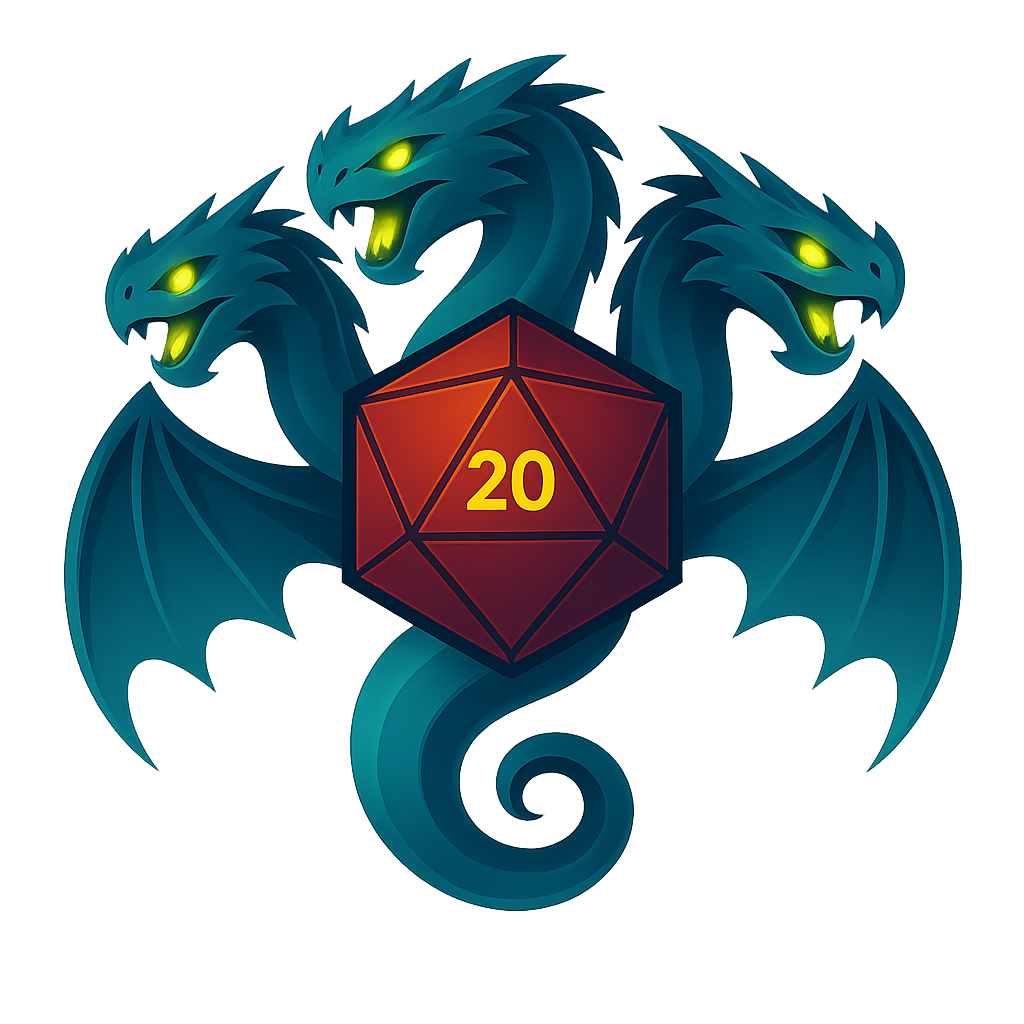
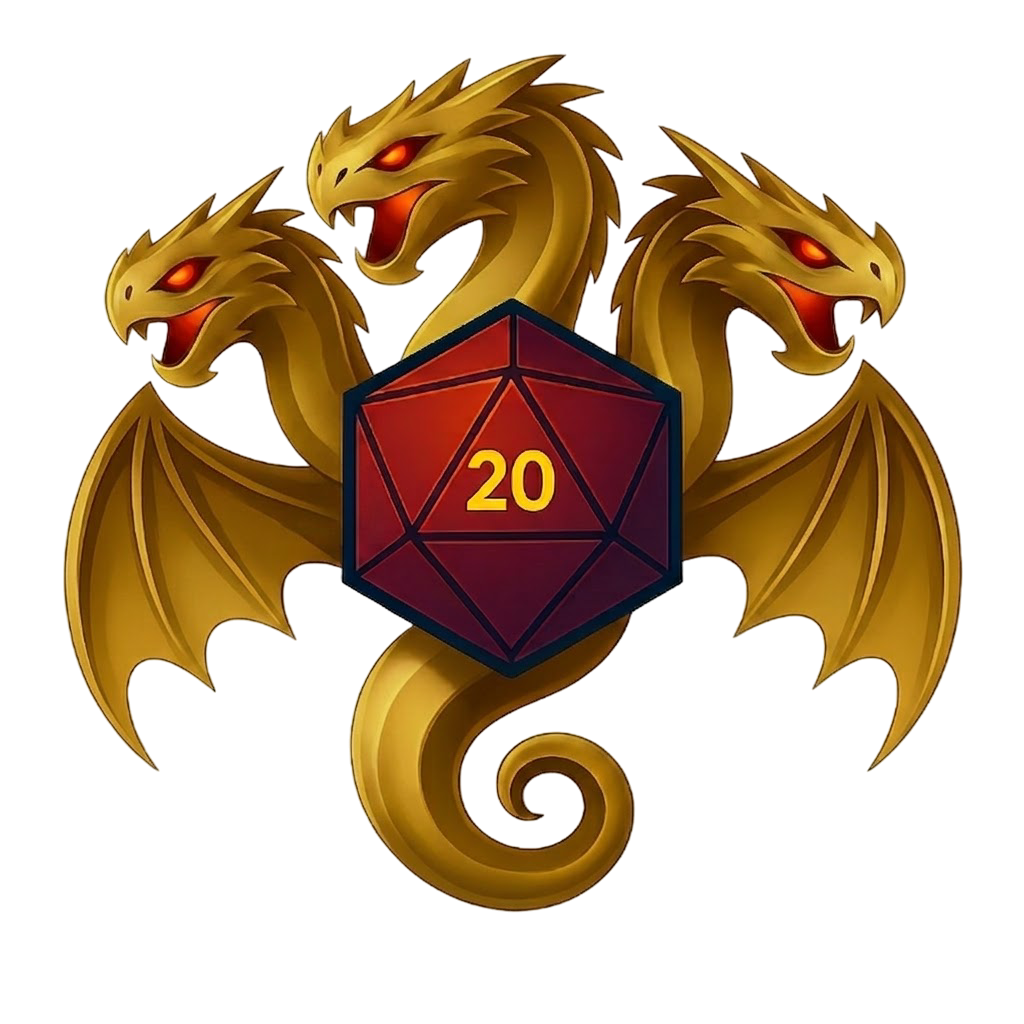
Routes Update

diff --git a/montador_de_rpg/src/Routes/Router.jsx b/montador_de_rpg/src/Routes/Router.jsx
@@ -1,8 +1,12 @@
 import { createBrowserRouter } from "react-router-dom";
 import Home from "../pages/Home.jsx";
-import Login from "../pages/Login.jsx";
+import LoginUser from "../pages/LoginUser.jsx";
+import UserMenu from "../pages/UserMenu.jsx";
+import MasterPanel from "../pages/MasterPanel.jsx";
+import PlayerPanel from "../pages/PlayerPanel.jsx";
+import LoginAdm from "../pages/LoginAdm.jsx";
 import AdmMenu from "../pages/AdmMenu.jsx";
-import AdmPainel from "../pages/AdmPainel.jsx";
+import AdmPanel from "../pages/AdmPanel.jsx";
 import ErrorPage from "../pages/ErrorPage.jsx";
 import { ProtectedRoute } from "./ProtecaoManeira.jsx";
 
@@ -15,7 +19,27 @@ const Router = (banners) =>
     },
     {
       path: "/login",
-      element: <Login />,
+      element: <LoginUser />,
+      errorElement: <ErrorPage />,
+    },
+    {
+      path: "/menu",
+      element: <UserMenu />,
+      errorElement: <ErrorPage />,
+    },
+    {
+      path: "/player",
+      element: <PlayerPanel />,
+      errorElement: <ErrorPage />,
+    },
+    {
+      path: "/master",
+      element: <MasterPanel />,
+      errorElement: <ErrorPage />,
+    },
+    {
+      path: "/admlogin",
+      element: <LoginAdm />,
       errorElement: <ErrorPage />,
     },
     {
@@ -31,24 +55,10 @@ const Router = (banners) =>
       path: "/adm/painel",
       element: (
         <ProtectedRoute>
-          <AdmPainel />
+          <AdmPanel />
         </ProtectedRoute>
       ),
       errorElement: <ErrorPage />,
-      children: [
-        // {
-        //   path: "produtos",
-        //   element: <AdmProd produtos={produtos}/>,
-        // },
-        // {
-        //   path: "categorias",
-        //   element: <AdmCateg categorias={categorias} subCateg={subCateg}/>,
-        // },
-        // {
-        //   path: "banners",
-        //   element: <AdmBanner banners={banners}/>,
-        // },
-      ],
     },
     {
       path: "*",

diff --git a/montador_de_rpg/src/Components/NavBar/navB.jsx b/montador_de_rpg/src/Components/NavBar/navB.jsx
@@ -6,14 +6,14 @@ import { Link } from 'react-router-dom';
 export default function NavB({setSearchModal, searchText, setSearchText}) {
 
   /* Exibibe botão painel se autenticado */
-  // const [link, setLink] = useState(null)
-  // useEffect(() => {
-  //   if (authenticated) {
-  //     setLink(<li><a href="/adm">ADM</a></li>);
-  //   } else {
-  //     setLink(null);
-  //   }
-  // }, []);
+  /* const [link, setLink] = useState(null)
+     useEffect(() => {
+        if (authenticated) {
+          setLink(<li><a href="/adm">ADM</a></li>);
+        } else {
+          setLink(null);
+        }
+     }, []); */
 
   /* inicializa tema */
   let currentTheme = localStorage.getItem("theme") || "";
@@ -56,25 +56,16 @@ export default function NavB({setSearchModal, searchText, setSearchText}) {
          {/*<!--========== Header ==========-->*/}
             <header className={styles.header}>
                 <div className={styles.inner}>
-                    <div className={styles.logo}>
+                    <div className={styles.navBtns}>
+                        <div className={styles.logo}>
                         <Link to="/" onClick={() => Location.reload()}><img  src={logo}/></Link>
+                        </div>
+                        <div className={styles.headerBtns}>
+                        <li><Link to="/" onClick={() => Location.reload()}>Como Funciona</Link></li>
+                        <li><Link to="/" onClick={() => Location.reload()}>Sistemas</Link></li>
+                        <li><Link to="/" onClick={() => Location.reload()}>Mesa</Link></li>
+                        </div>
                     </div>
-                    {/* <div className={styles.searchBar}>
-                      <input type="text" value={searchText} 
-                      onChange={(e) => setSearchText(e.target.value)} 
-                      name="searchBar" 
-                      id="searchBar" 
-                      placeholder='Pesquise algum produto...'/>
-                      <button onClick={() => {
-                        if (searchText) {
-                          setSearchModal(true)
-                        } else {
-                          alert("Pesquise algo primeiro");
-                        }
-                        }}>
-                          <i className="ri-search-line"></i> 
-                      </button>
-                    </div> */}
                     <div className={styles.headerBtns}>
                         <li><Link to="/" onClick={() => Location.reload()}>Início</Link></li>
                         <li><Link to="/about-us" onClick={() => Location.reload()}>Sobre Nós</Link></li>

diff --git a/montador_de_rpg/src/pages/LoginUser.jsx b/montador_de_rpg/src/pages/LoginUser.jsx
@@ -1,0 +1,7 @@
+import Container from "../Components/Form/FormCont"
+
+export default function LoginUser(){
+    return <>
+      <Container/>
+    </>
+}

diff --git a/montador_de_rpg/src/Components/Css/styles.navB.module.css b/montador_de_rpg/src/Components/Css/styles.navB.module.css
@@ -33,6 +33,11 @@
   height: 15vh;
 }
 
+.navBtns{
+  display: flex;
+  gap: 25px;
+}
+
 .searchBar {
   background-color: #020623;
   border-radius: 25px;

diff --git a/montador_de_rpg/src/pages/MasterPanel.jsx b/montador_de_rpg/src/pages/MasterPanel.jsx
@@ -1,0 +1,4 @@
+export default function MasterPanel(){
+    return <>
+    </>
+}

diff --git a/montador_de_rpg/src/pages/PlayerPanel.jsx b/montador_de_rpg/src/pages/PlayerPanel.jsx
@@ -1,0 +1,4 @@
+export default function PlayerPanel(){
+    return <>
+    </>
+}

diff --git a/montador_de_rpg/src/pages/UserMenu.jsx b/montador_de_rpg/src/pages/UserMenu.jsx
@@ -1,0 +1,4 @@
+export default function UserMenu(){
+    return <>
+    </>
+}